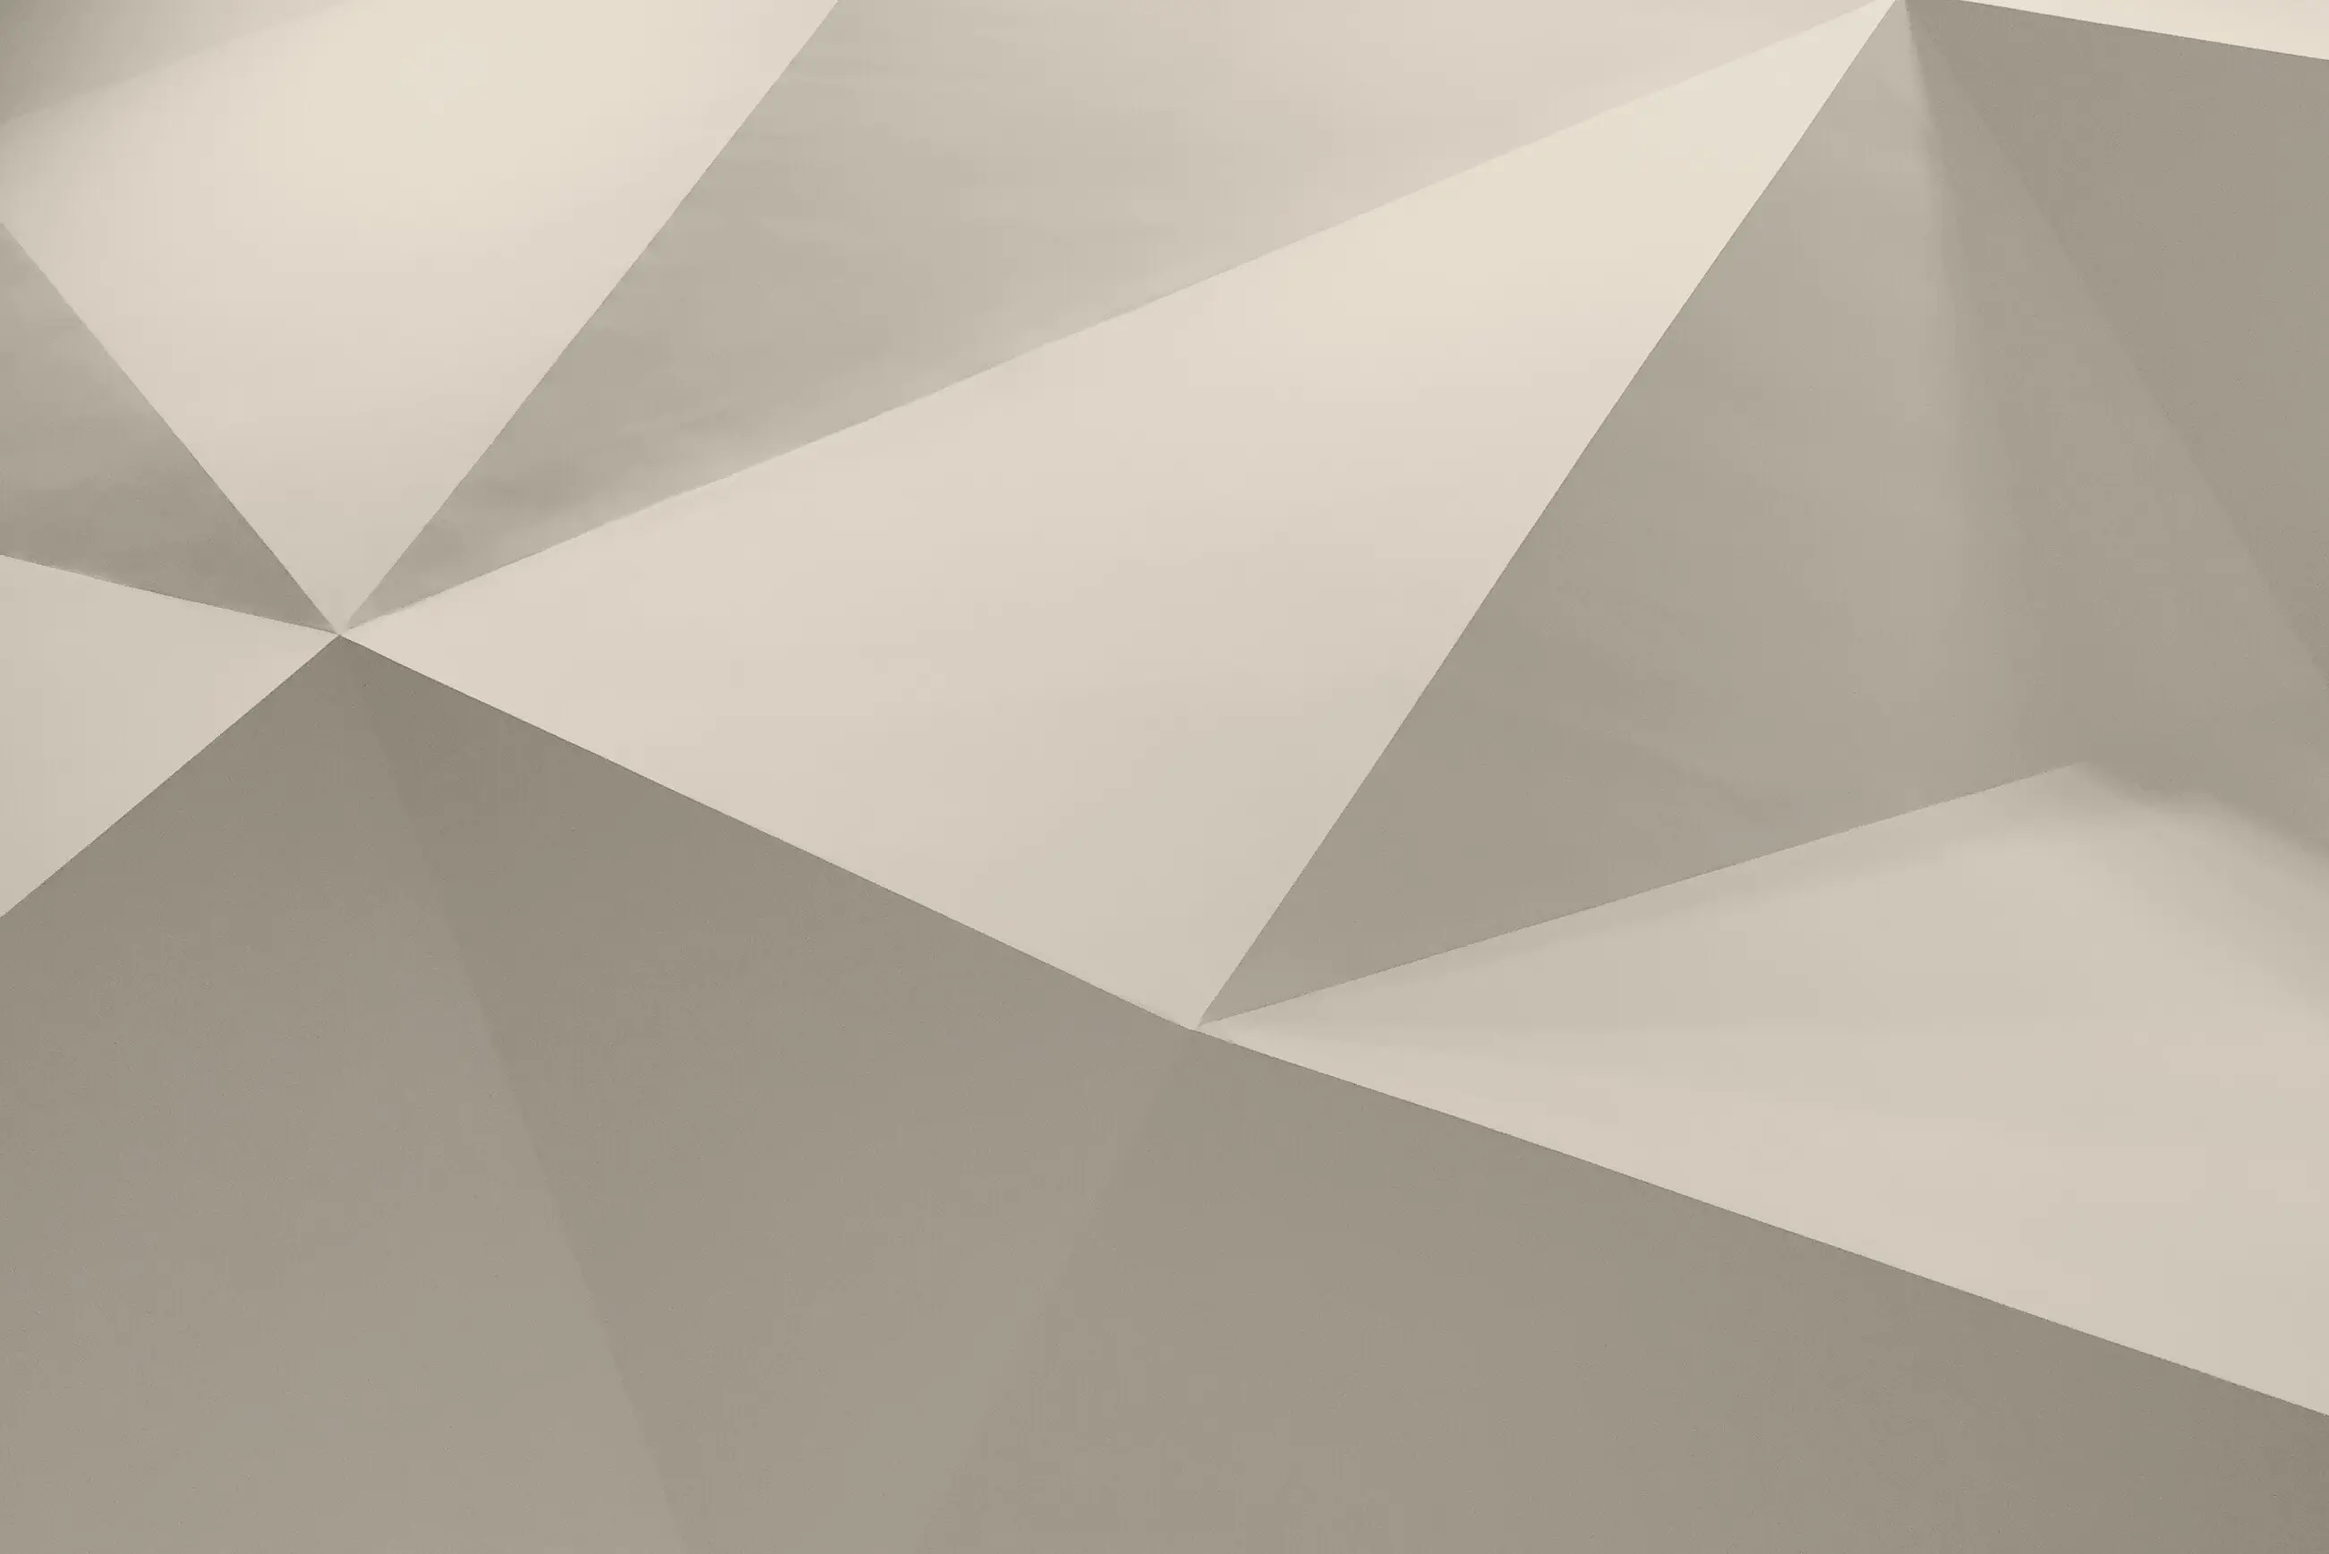
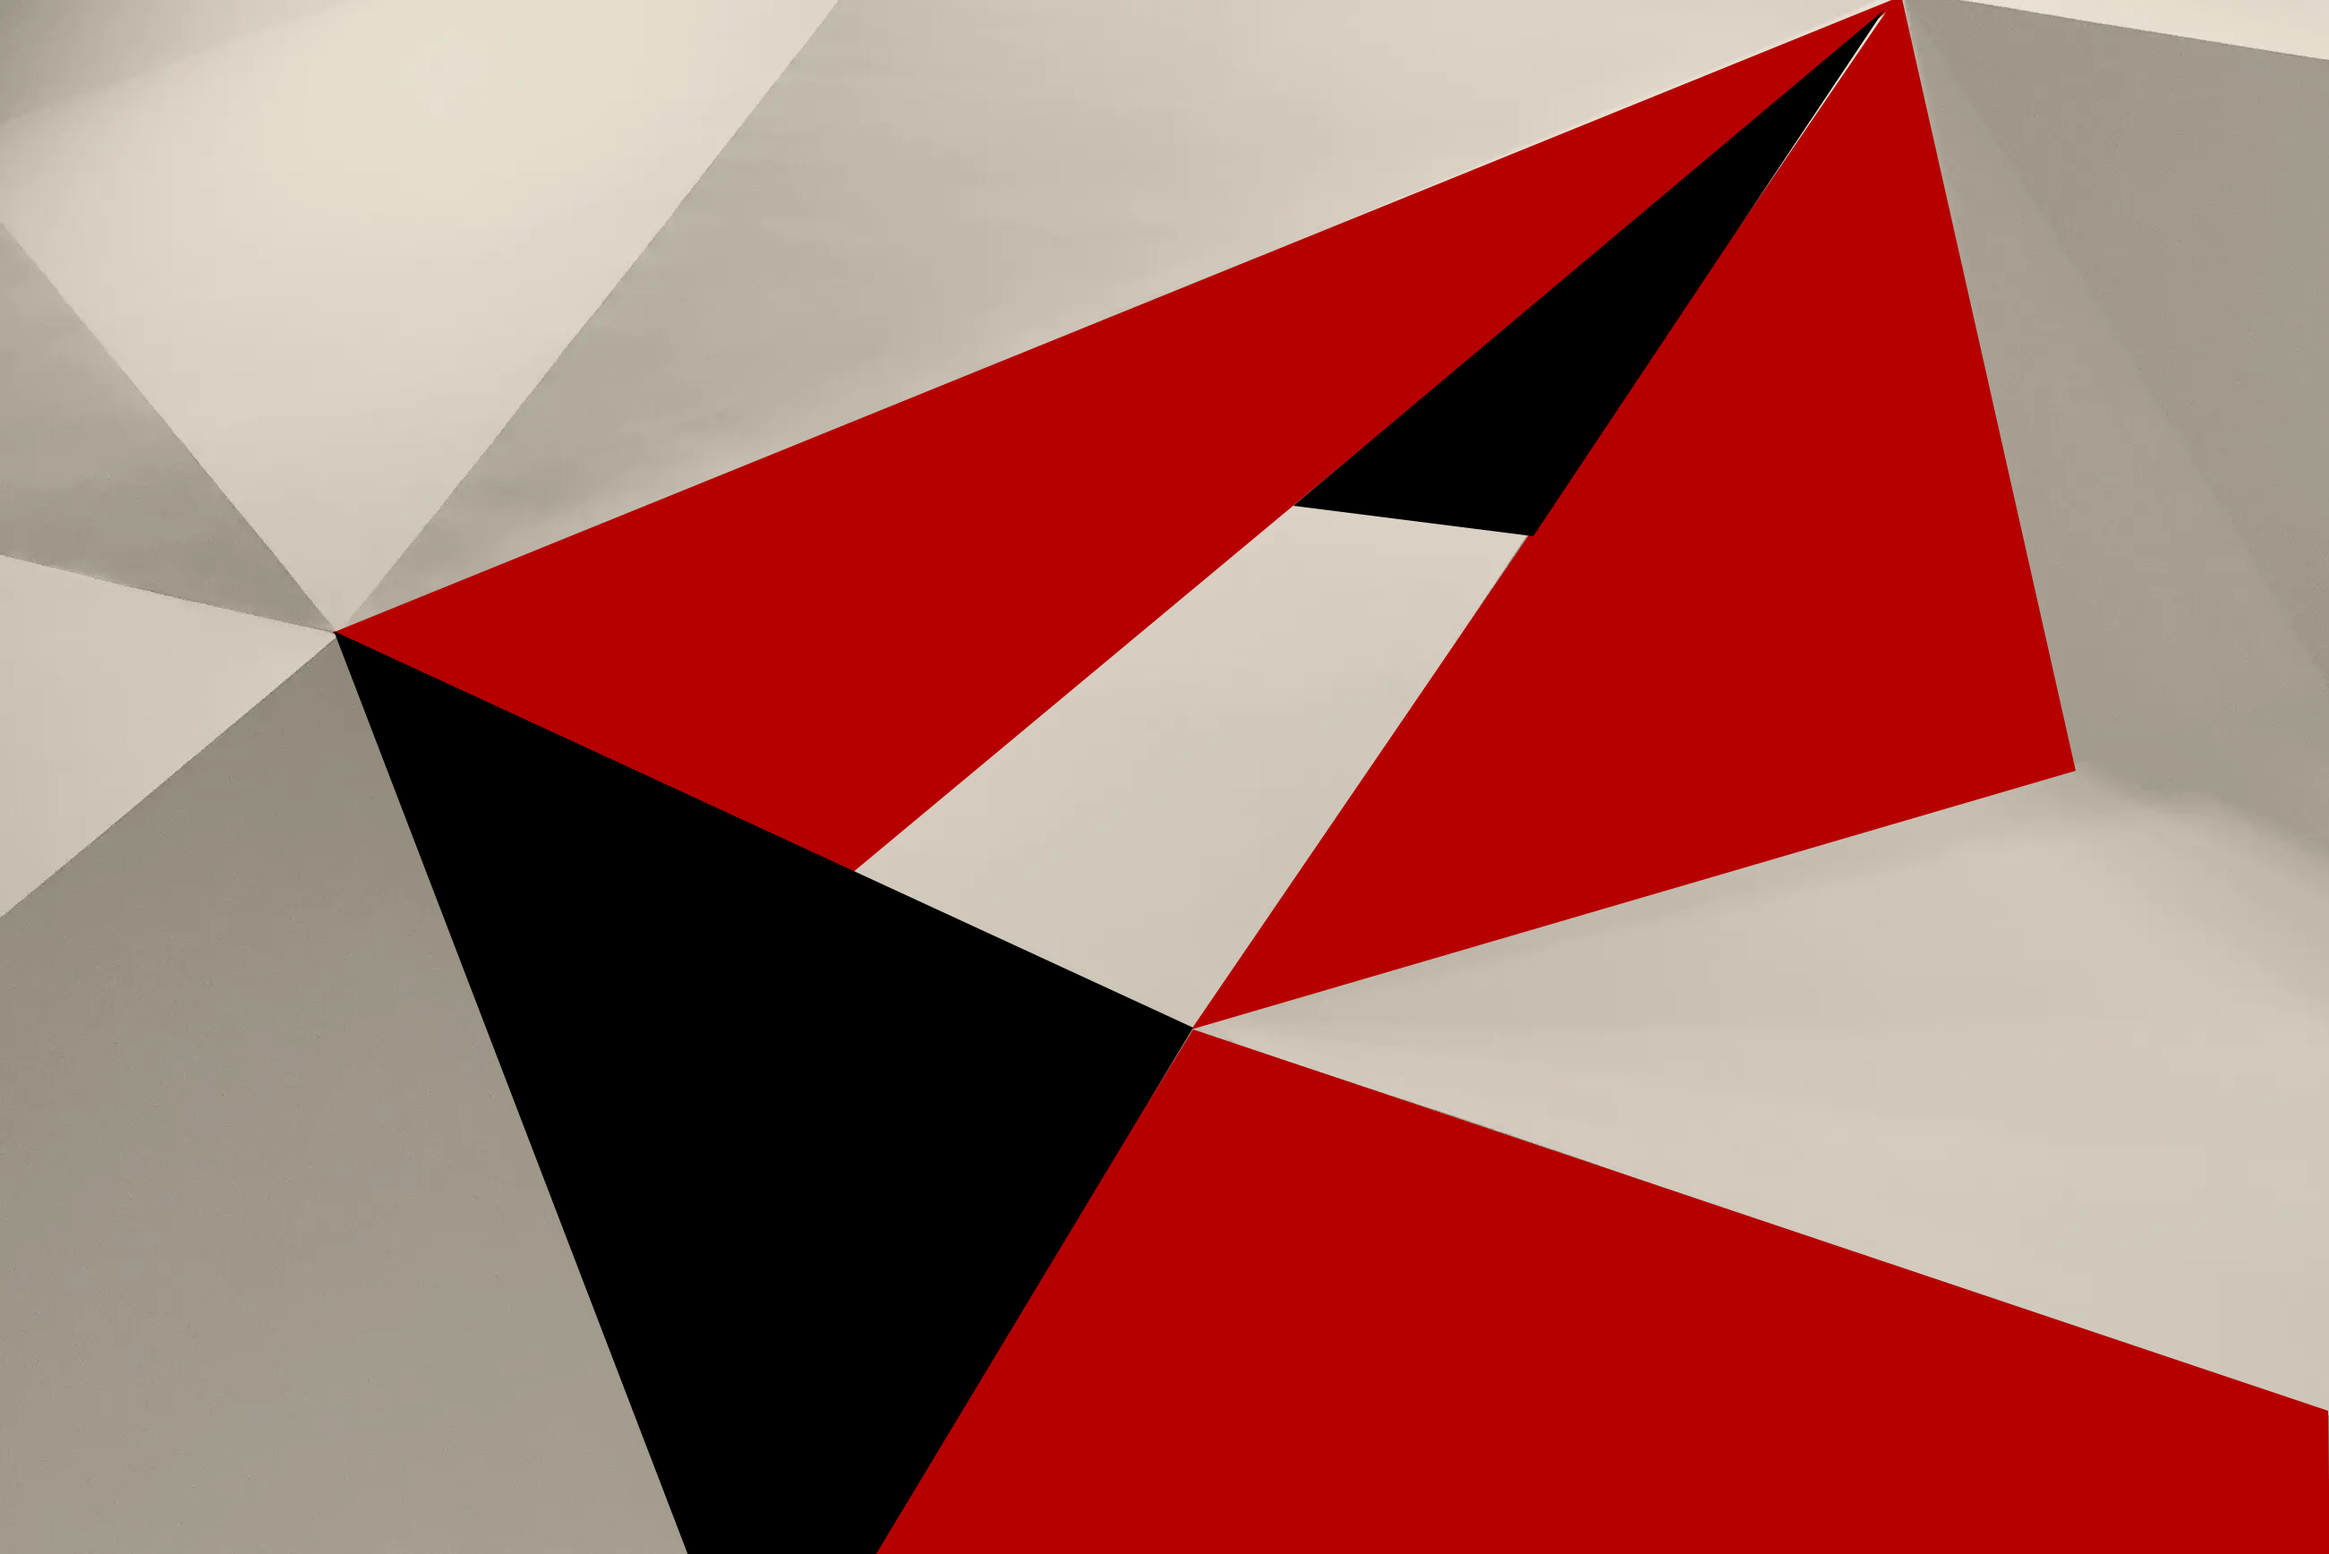
newLogo

diff --git a/src/components/ui/NavBar.jsx b/src/components/ui/NavBar.jsx
@@ -56,15 +56,7 @@ export default function NavBar({ sectionRefs }) {
     >
       {/* logo */}
       <a href="#hero" aria-label="Logo" className="z-50">
-        <svg
-          ref={logo}
-          width="80"
-          height="45"
-          viewBox="0 0 121 45"
-          fill="currentColor"
-          xmlns="http://www.w3.org/2000/svg"
-        >
-         <path d="M0 37.65L0 23.10L30.80 23.10L30.80 37.65L24.70 37.65L24.70 57.65L6 57.65L6 37.65L0 37.65ZM52.75 38.70L52.75 44.80L54.75 44.80L54.75 41.35L66.55 40.90L66.55 57.65Q61.20 58.10 52.17 58.10Q43.15 58.10 38.42 53.55Q33.70 49 33.70 40.05Q33.70 31.10 38.35 26.90Q43 22.70 52.20 22.70Q55.85 22.70 59.35 23.05Q62.85 23.40 64.55 23.75L66.20 24.10L66.20 38.70L52.75 38.70ZM69.45 23.10L86.65 23.10L86.65 44.80L91.75 44.80L91.75 57.65L69.45 57.65L69.45 23.10Z"/></svg>
+        <img src="\src\assets\images\logo.png" ref={logo} width={160} height={20}></img>
       </a>
       <nav className=" space-x-7 font-grotesk text-body-3 sm:block">
         <a href="#about" className="group relative hidden md:inline-block">
